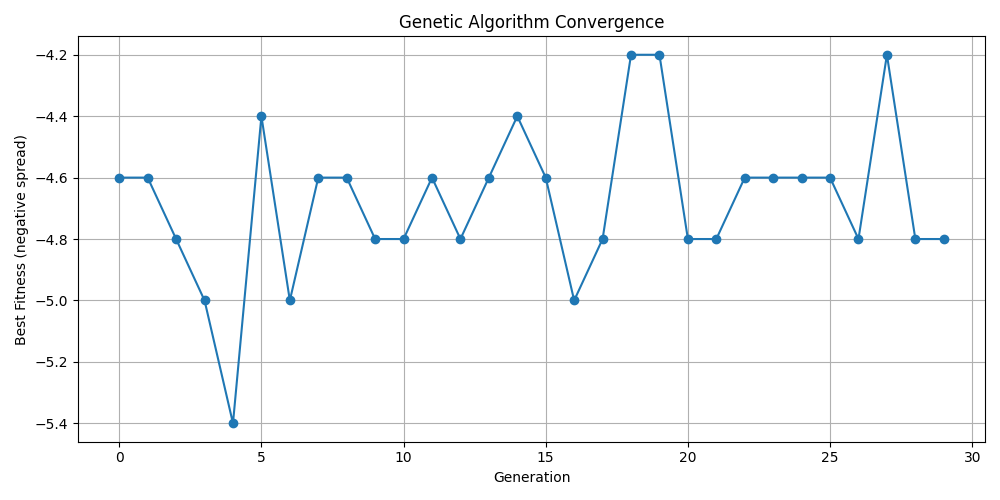
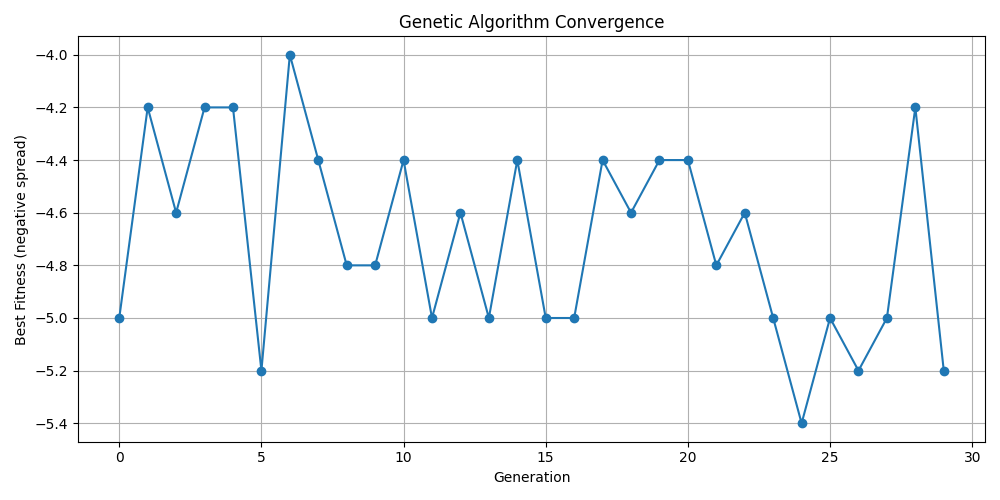
improve genetic

diff --git a/src/genetic.py b/src/genetic.py
@@ -1,14 +1,20 @@
 import random
-import networkx as nx
-from helper import simulate_icm_spread
+from helper import simulate_icm_spread_total
 import copy
 import pickle
+import matplotlib.pyplot as plt
+import sys
+import os
 
-def evaluate_fitness(G, candidate, steps=30):
-    G_copy = copy.deepcopy(G)
-    G_copy.remove_nodes_from(candidate)
-    infected, _ = simulate_icm_spread(G_copy, steps=steps)
-    return -sum(infected)  # Lower spread = better
+def evaluate_fitness(G, candidate, steps=30, runs=5):
+    total = 0
+    for _ in range(runs):
+        G_copy = copy.deepcopy(G)
+        G_copy.remove_nodes_from(candidate)
+        infected = simulate_icm_spread_total(G_copy, steps=steps)
+        total += len(infected)
+    return -total / runs
+
 
 def initialize_population(G, k, pop_size):
     nodes = list(G.nodes())
@@ -21,7 +27,7 @@ def crossover(parent1, parent2):
         child.append(new_node)
     return child
 
-def mutate(chromosome, G, mutation_rate=0.2):
+def mutate(chromosome, G, mutation_rate):
     if random.random() < mutation_rate:
         idx = random.randint(0, len(chromosome) - 1)
         remaining = list(set(G.nodes()) - set(chromosome))
@@ -29,27 +35,79 @@ def mutate(chromosome, G, mutation_rate=0.2):
             chromosome[idx] = random.choice(remaining)
     return chromosome
 
-def select_parents(population, fitnesses, tournament_size=3):
+def select_parents(population, fitnesses, tournament_size):
     selected = random.sample(list(zip(population, fitnesses)), tournament_size)
     return max(selected, key=lambda x: x[1])[0]
 
-def genetic_blocking_strategy(G, k, generations=30, pop_size=20):
+def genetic_blocking_strategy(G, k, config, plot=True):
+    pop_size = config.get("pop_size", 30)
+    generations = config.get("generations", 50)
+    mutation_rate = config.get("mutation_rate", 0.1)
+    tournament_size = config.get("tournament_size", 3)
+    elitism_count = config.get("elitism_count", 1)
+    steps = config.get("steps", 30)
+
     population = initialize_population(G, k, pop_size)
+    best_fitnesses = []
+
     for _ in range(generations):
-        fitnesses = [evaluate_fitness(G, indiv) for indiv in population]
+        # Save best fitness for convergence plot
+        fitnesses = [evaluate_fitness(G, indiv, steps=steps) for indiv in population]
+        best_fitnesses.append(max(fitnesses))
+
         new_pop = []
-        for _ in range(pop_size):
-            p1 = select_parents(population, fitnesses)
-            p2 = select_parents(population, fitnesses)
+
+        # Elitism
+        elites = sorted(zip(population, fitnesses), key=lambda x: x[1], reverse=True)[:elitism_count]
+        new_pop.extend([indiv for indiv, _ in elites])
+
+        while len(new_pop) < pop_size:
+            p1 = select_parents(population, fitnesses, tournament_size)
+            p2 = select_parents(population, fitnesses, tournament_size)
             child = crossover(p1, p2)
-            child = mutate(child, G)
+            child = mutate(child, G, mutation_rate)
             new_pop.append(child)
+
         population = new_pop
-    best = max(population, key=lambda indiv: evaluate_fitness(G, indiv))
-    return best
+
+    best_individual = max(population, key=lambda indiv: evaluate_fitness(G, indiv, steps=steps))
+    print(f"Best fitness: {best_individual}")
+    if plot:
+        plt.figure(figsize=(10, 5))
+        plt.plot(best_fitnesses, marker="o")
+        plt.title("Genetic Algorithm Convergence")
+        plt.xlabel("Generation")
+        plt.ylabel("Best Fitness (negative spread)")
+        plt.grid(True)
+        plt.tight_layout()
+        plt.savefig("ga_convergence_plot.png")
+        plt.show()
+
+    return best_individual
 
 if __name__ == "__main__":
     G = pickle.load(open("graph.pkl", "rb"))
     k = 5
-    selected_nodes = genetic_blocking_strategy(G, k)
-    print("Blocked nodes:", selected_nodes)
+    sys.path.append(os.path.dirname(os.path.dirname(__file__)))
+    from config import CONFIG as config
+    
+    # config = {
+    #     "pop_size": 50,
+    #     "generations": 100,
+    #     "mutation_rate": 0.1,
+    #     "tournament_size": 3,
+    #     "elitism_count": 2,
+    #     "steps": 30
+    # }
+
+    # top config = {
+    #     'pop_size': 20,
+    #     'generations': 30,
+    #     'mutation_rate': 0.1,
+    #     'tournament_size': 5,
+    #     'elitism_count': 1,
+    #     'steps': 30
+    # }
+
+    selected_nodes = genetic_blocking_strategy(G, k, config["genetic_config"])
+    print("Blocked nodes by GA:", selected_nodes)

diff --git a/src/06b_genetic_automate.py b/src/06b_genetic_automate.py
@@ -2,39 +2,40 @@ import itertools
 import random
 import pickle
 import copy
+from genetic import crossover, evaluate_fitness, initialize_population, mutate, select_parents
 from helper import simulate_icm_spread
 import pandas as pd
 import networkx as nx
 
 # --- GA components from previous code ---
-def evaluate_fitness(G, candidate, steps=30):
-    G_copy = copy.deepcopy(G)
-    G_copy.remove_nodes_from(candidate)
-    infected, _ = simulate_icm_spread(G_copy, steps=steps)
-    return -sum(infected)
+# def evaluate_fitness(G, candidate, steps=30):
+#     G_copy = copy.deepcopy(G)
+#     G_copy.remove_nodes_from(candidate)
+#     infected, _ = simulate_icm_spread(G_copy, steps=steps)
+#     return -sum(infected)
 
-def initialize_population(G, k, pop_size):
-    nodes = list(G.nodes())
-    return [random.sample(nodes, k) for _ in range(pop_size)]
+# def initialize_population(G, k, pop_size):
+#     nodes = list(G.nodes())
+#     return [random.sample(nodes, k) for _ in range(pop_size)]
 
-def crossover(parent1, parent2):
-    child = list(set(parent1[:len(parent1)//2] + parent2[len(parent2)//2:]))
-    while len(child) < len(parent1):
-        new_node = random.choice(list(set(parent1 + parent2) - set(child)))
-        child.append(new_node)
-    return child
+# def crossover(parent1, parent2):
+#     child = list(set(parent1[:len(parent1)//2] + parent2[len(parent2)//2:]))
+#     while len(child) < len(parent1):
+#         new_node = random.choice(list(set(parent1 + parent2) - set(child)))
+#         child.append(new_node)
+#     return child
 
-def mutate(chromosome, G, mutation_rate):
-    if random.random() < mutation_rate:
-        idx = random.randint(0, len(chromosome) - 1)
-        remaining = list(set(G.nodes()) - set(chromosome))
-        if remaining:
-            chromosome[idx] = random.choice(remaining)
-    return chromosome
+# def mutate(chromosome, G, mutation_rate):
+#     if random.random() < mutation_rate:
+#         idx = random.randint(0, len(chromosome) - 1)
+#         remaining = list(set(G.nodes()) - set(chromosome))
+#         if remaining:
+#             chromosome[idx] = random.choice(remaining)
+#     return chromosome
 
-def select_parents(population, fitnesses, tournament_size):
-    selected = random.sample(list(zip(population, fitnesses)), tournament_size)
-    return max(selected, key=lambda x: x[1])[0]
+# def select_parents(population, fitnesses, tournament_size):
+#     selected = random.sample(list(zip(population, fitnesses)), tournament_size)
+#     return max(selected, key=lambda x: x[1])[0]
 
 def genetic_blocking_strategy(G, k, generations, pop_size, mutation_rate, elitism_count, tournament_size):
     population = initialize_population(G, k, pop_size)
